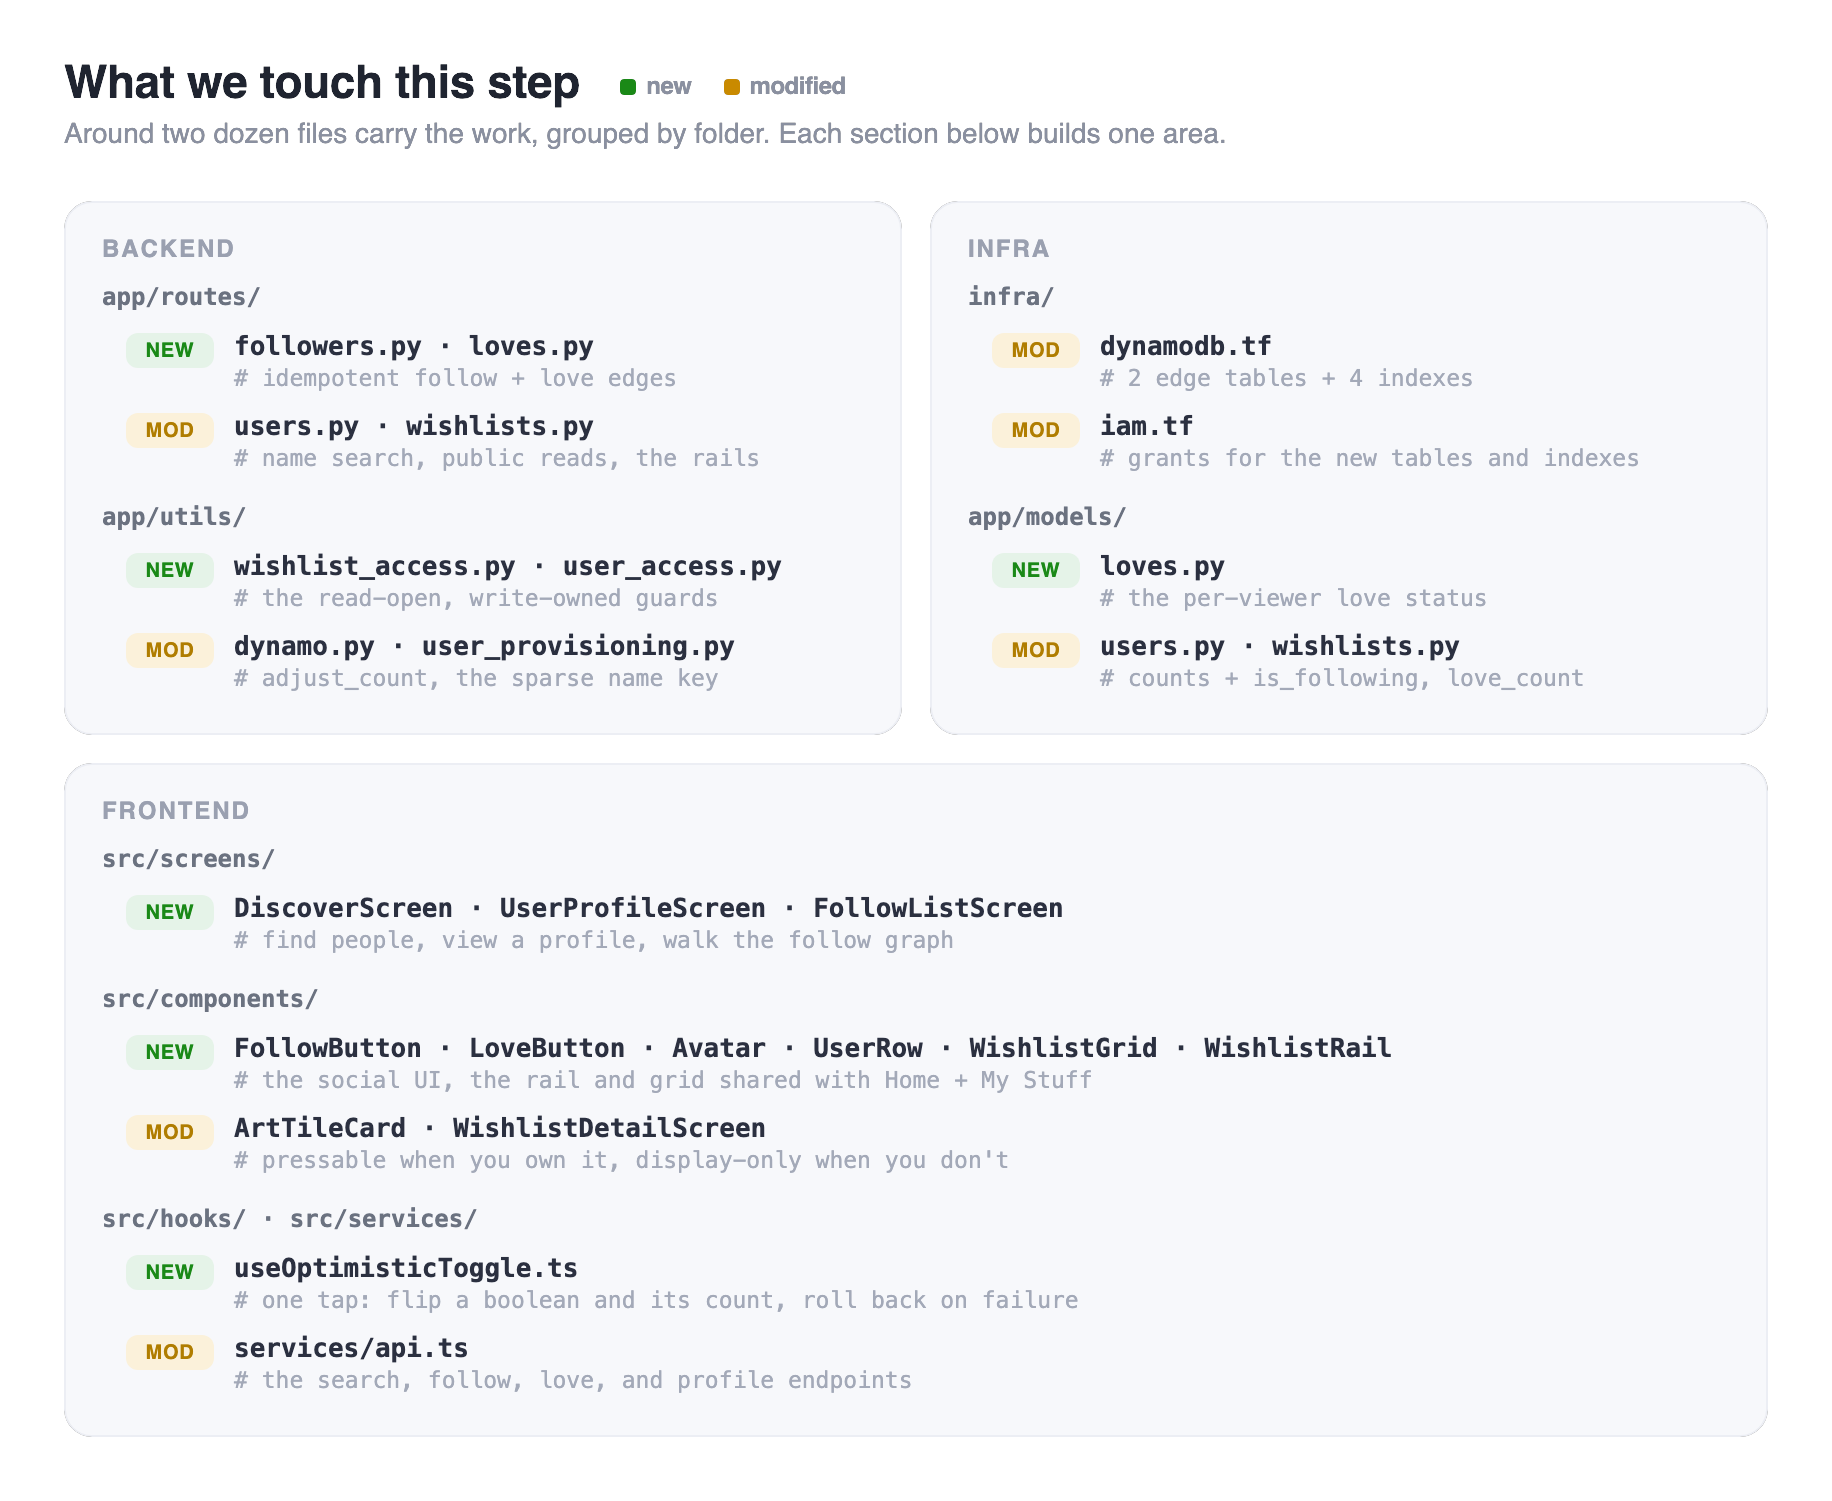
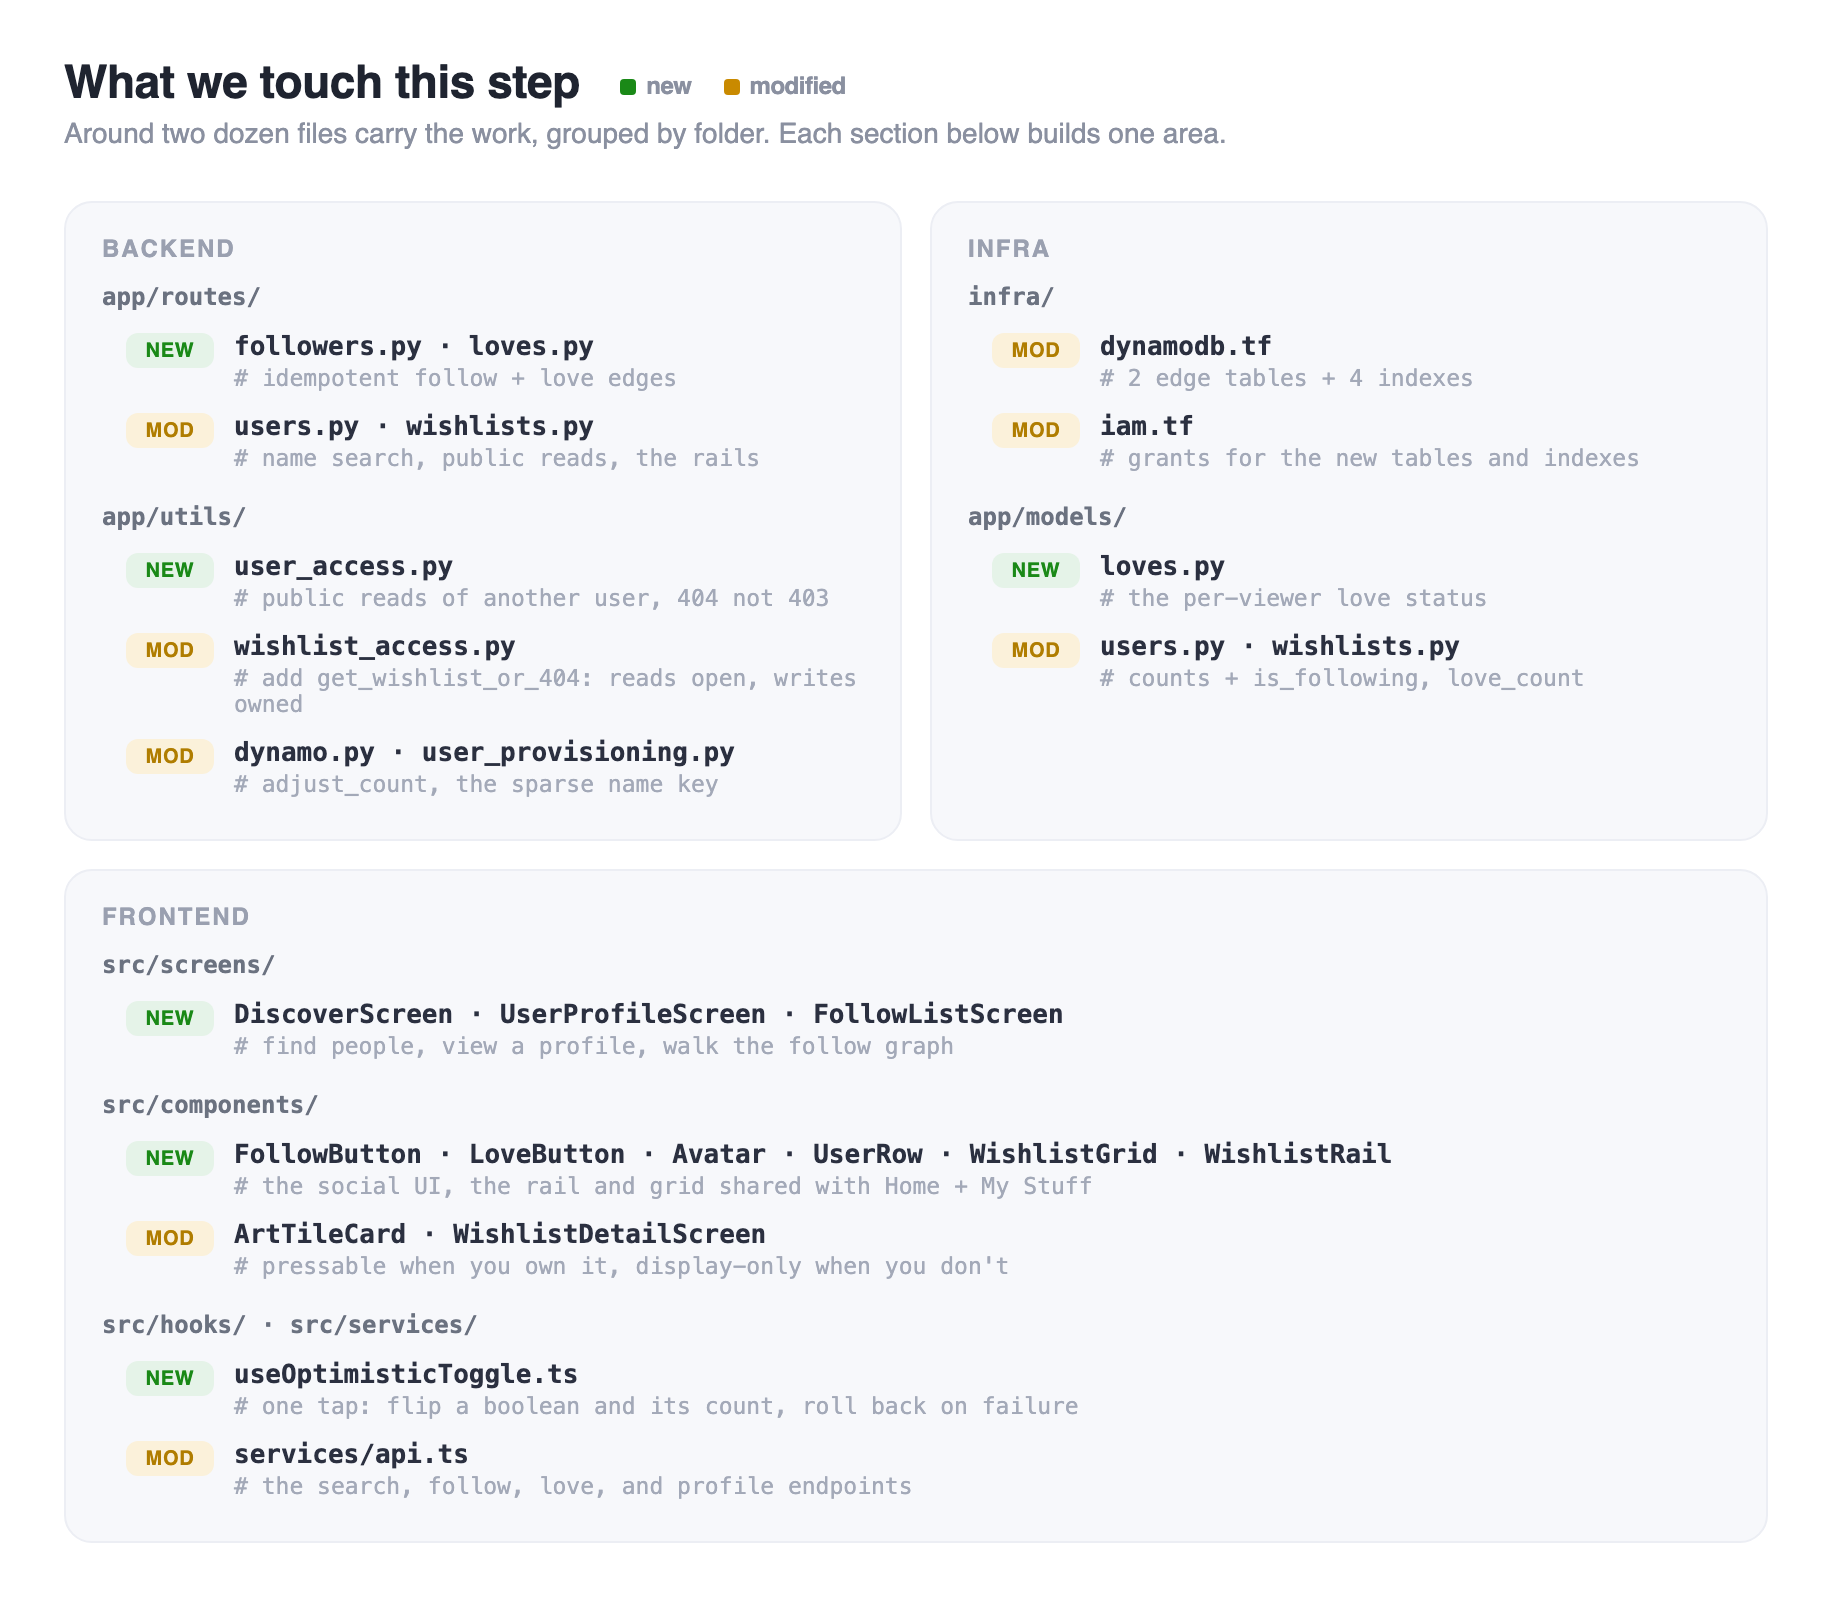
content(10-social): fix filemap access-guard badges + index footnote
- filemap: user_access.py is NEW (absent in 09), wishlist_access.py is MOD
  (step 10 adds get_wishlist_or_404). Split the one mislabeled NEW row into
  two correctly-badged entries; all other badges verified against the
  09->10 name-status diff.
- index footnote: "the same index" -> "the same partition". NameSearchIndex
  and PopularUsersIndex are two GSIs sharing the entity_type="USER"
  partition, not one index.
- re-rendered both PNGs from source (same pipeline, dims, fonts).

diff --git a/mocks/img-10-filemap.html b/mocks/img-10-filemap.html
@@ -39,7 +39,8 @@
       <div class="row"><span class="badge b-new">new</span><span class="fc"><span class="path">followers.py &#183; loves.py</span><span class="note"># idempotent follow + love edges</span></span></div>
       <div class="row"><span class="badge b-mod">mod</span><span class="fc"><span class="path">users.py &#183; wishlists.py</span><span class="note"># name search, public reads, the rails</span></span></div>
       <div class="folder">app/utils/</div>
-      <div class="row"><span class="badge b-new">new</span><span class="fc"><span class="path">wishlist_access.py &#183; user_access.py</span><span class="note"># the read-open, write-owned guards</span></span></div>
+      <div class="row"><span class="badge b-new">new</span><span class="fc"><span class="path">user_access.py</span><span class="note"># public reads of another user, 404 not 403</span></span></div>
+      <div class="row"><span class="badge b-mod">mod</span><span class="fc"><span class="path">wishlist_access.py</span><span class="note"># add get_wishlist_or_404: reads open, writes owned</span></span></div>
       <div class="row"><span class="badge b-mod">mod</span><span class="fc"><span class="path">dynamo.py &#183; user_provisioning.py</span><span class="note"># adjust_count, the sparse name key</span></span></div>
     </div>
     <div class="grp">

diff --git a/mocks/img-10-index.html b/mocks/img-10-index.html
@@ -50,6 +50,6 @@
     <div class="out" style="left:472px;top:22px"><div class="t">Prefix search</div><div class="s">name_lowercase begins_with(q)</div></div>
     <div class="out" style="left:472px;top:166px"><div class="t">Popular rail</div><div class="s">follower_count, descending</div></div>
   </div>
-  <div class="foot">Sort the same index by name for the typeahead, or by follower count for Discover. The wishlist rail rides the identical pattern, keyed WISHLIST and ranked by love_count.</div>
+  <div class="foot">Sort the same partition by name for the typeahead, or by follower count for Discover. The wishlist rail rides the identical pattern, keyed WISHLIST and ranked by love_count.</div>
 </div>
 </body></html>
